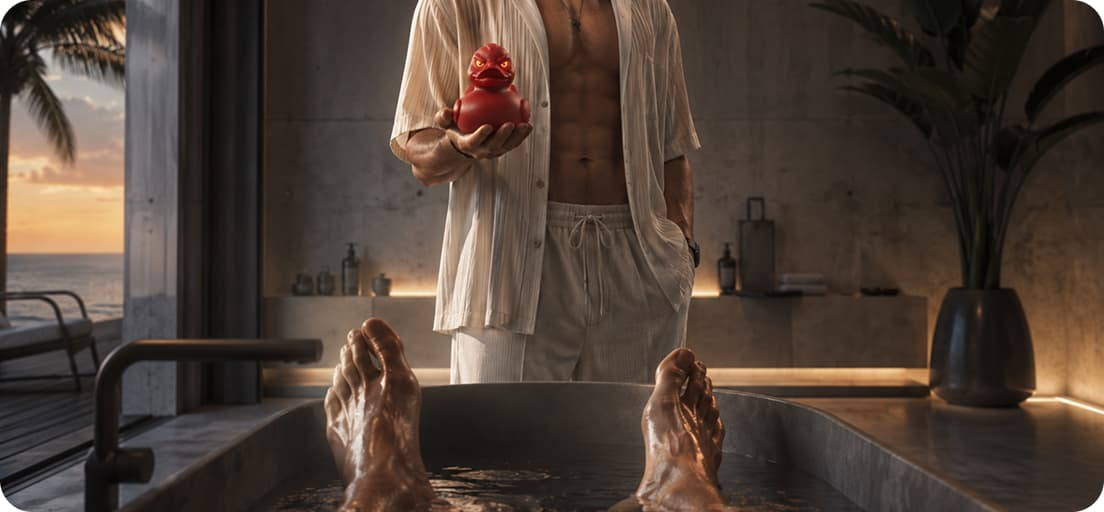
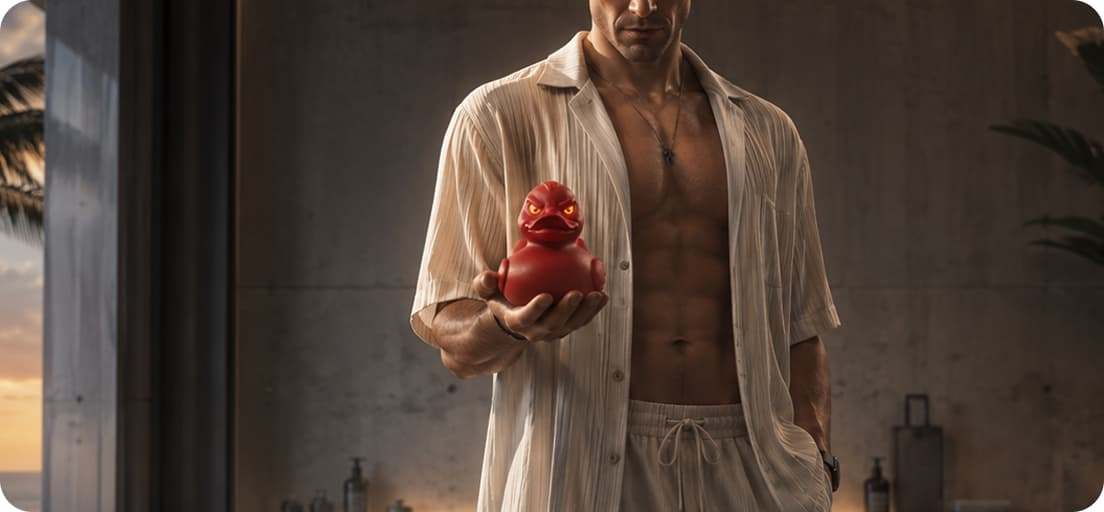
feat(home): redesign review intro modal to two-minute cards
Match Figma 492:3611: author name in description, minute cards with rec preview, and playful CTA before claim.

diff --git a/src/components/home-screen/HomeScreen.js b/src/components/home-screen/HomeScreen.js
@@ -58,9 +58,8 @@ import { createAccountMenu } from "../account-menu/AccountMenu.js";
 import { createTabsPanel } from "../tabs-panel/TabsPanel.js";
 import { createLegendaryOnlinePanel } from "../legendary-online-panel/LegendaryOnlinePanel.js";
 import { createContactFab } from "../contact-fab/ContactFab.js";
-import { createExplainerMediaRay } from "./explainerMediaRay.js";
 import { COMMUNITY_CONTACT_URL } from "../../config/contacts.js";
-import { REVIEW_SESSION_SECONDS } from "../../config/review.js";
+import { createExplainerMediaRay } from "./explainerMediaRay.js";
 import boneIconUrl from "../../assets/home/bone.svg";
 import balanceCardDucksUrl from "../../assets/home/modal/balance-card-ducks.svg";
 import currencyDuckUrl from "../../assets/home/modal/currency-duck.png";
@@ -95,6 +94,65 @@ function reputationIconUrlFor(delta) {
   if (delta > 0) return reputationPositiveIconUrl;
   if (delta < 0) return reputationNegativeIconUrl;
   return reputationNeutralIconUrl;
+}
+
+/**
+ * Декоративный чип rec для intro-модалки (Figma `492:3611`) — не интерактивный.
+ * @returns {HTMLDivElement}
+ */
+function createReviewIntroRecPreview() {
+  const chip = document.createElement("div");
+  chip.className = "home-screen__review-intro-rec";
+  chip.setAttribute("aria-hidden", "true");
+
+  const micWrap = document.createElement("span");
+  micWrap.innerHTML = `<svg class="home-screen__review-intro-rec-mic" width="32" height="32" viewBox="0 0 18 18" fill="none" xmlns="http://www.w3.org/2000/svg" aria-hidden="true" focusable="false">
+    <path d="M9 11.25C10.2426 11.25 11.25 10.2426 11.25 9V4.5C11.25 3.25736 10.2426 2.25 9 2.25C7.75736 2.25 6.75 3.25736 6.75 4.5V9C6.75 10.2426 7.75736 11.25 9 11.25Z" stroke="currentColor" stroke-linecap="round" stroke-linejoin="round"/>
+    <path d="M13.5 8.25V9C13.5 11.4853 11.4853 13.5 9 13.5C6.51472 13.5 4.5 11.4853 4.5 9V8.25M9 13.5V15.75M7.125 15.75H10.875" stroke="currentColor" stroke-linecap="round" stroke-linejoin="round"/>
+  </svg>`;
+  const mic = micWrap.firstElementChild;
+
+  const wave = document.createElement("span");
+  wave.className = "home-screen__review-intro-rec-wave";
+  for (let i = 0; i < 12; i += 1) {
+    const bar = document.createElement("span");
+    bar.className = "home-screen__review-intro-rec-bar";
+    wave.append(bar);
+  }
+
+  const dot = document.createElement("span");
+  dot.className = "home-screen__review-intro-rec-dot";
+
+  if (mic) chip.append(mic);
+  chip.append(wave, dot);
+  return chip;
+}
+
+/**
+ * Карточка шага intro-модалки (минута 1 / 2).
+ * @param {{ title: string; body: string; withRec?: boolean }} opts
+ * @returns {HTMLLIElement}
+ */
+function createReviewIntroCard(opts) {
+  const card = document.createElement("li");
+  card.className = "home-screen__review-intro-card";
+  if (opts.withRec) {
+    card.classList.add("home-screen__review-intro-card--with-rec");
+  }
+
+  const title = document.createElement("p");
+  title.className = "home-screen__review-intro-card-title";
+  title.textContent = fixHangingPrepositions(opts.title ?? "");
+
+  const body = document.createElement("p");
+  body.className = "home-screen__review-intro-card-body";
+  body.textContent = fixHangingPrepositions(opts.body ?? "");
+
+  card.append(title, body);
+  if (opts.withRec) {
+    card.append(createReviewIntroRecPreview());
+  }
+  return card;
 }
 
 /**
@@ -1177,29 +1235,38 @@ export function createHomeScreen({
   }
 
   /**
-   * Промежуточный шаг перед claim: что будет на `/review` + CTA «Проревьюить».
+   * Промежуточный шаг перед claim: две минуты + CTA «Сюдаа его!».
    *
    * @param {HomePortfolioItem} item
    */
   function openReviewIntro(item) {
     const t = getStrings();
     reviewIntroItem = item;
-    const steps = [
-      formatString(t.homeReviewIntroStep1, { seconds: REVIEW_SESSION_SECONDS }),
-      t.homeReviewIntroStep2,
-      t.homeReviewIntroStep3,
-      t.homeReviewIntroStep4,
-    ];
+    const authorName =
+      (typeof item.name === "string" && item.name.trim()) ||
+      (typeof item.url === "string" && item.url.trim()) ||
+      "";
     reviewIntroSteps.replaceChildren();
     reviewIntroSteps.setAttribute("aria-label", t.homeReviewIntroStepsAria ?? "");
-    for (const text of steps) {
-      const step = document.createElement("li");
-      step.className = "home-screen__review-intro-step";
-      step.textContent = text ?? "";
-      reviewIntroSteps.append(step);
-    }
-    reviewIntroModal.setTitle(t.homeReviewIntroTitle ?? "");
-    reviewIntroModal.setDescription(t.homeReviewIntroBody ?? "");
+    reviewIntroSteps.append(
+      createReviewIntroCard({
+        title: t.homeReviewIntroStep1Title ?? "",
+        body: t.homeReviewIntroStep1Body ?? "",
+        withRec: true,
+      }),
+      createReviewIntroCard({
+        title: t.homeReviewIntroStep2Title ?? "",
+        body: t.homeReviewIntroStep2Body ?? "",
+      }),
+    );
+    reviewIntroModal.setTitle(
+      fixHangingPrepositions(t.homeReviewIntroTitle ?? ""),
+    );
+    reviewIntroModal.setDescription(
+      fixHangingPrepositions(
+        formatString(t.homeReviewIntroBody ?? "", { name: authorName }),
+      ),
+    );
     reviewIntroModal.setPrimaryLabel(t.homeReviewIntroStart ?? "");
     reviewIntroModal.setSecondaryLabel(t.homeReviewIntroCancel ?? "");
     reviewIntroModal.setCloseAriaLabel(t.homeReviewIntroCloseAria ?? "");

diff --git a/styles/home-screen.css b/styles/home-screen.css
@@ -415,22 +415,160 @@
 }
 
 .home-screen__review-intro-steps {
+  box-sizing: border-box;
+  display: flex;
+  flex-wrap: wrap;
+  gap: var(--home-screen-review-intro-cards-gap);
+  width: 100%;
   margin: 0;
-  padding-left: var(--home-screen-review-intro-indent);
-  color: var(--color-text-muted);
+  padding: 0;
+  list-style: none;
+}
+
+.home-screen__review-intro-card {
+  box-sizing: border-box;
+  position: relative;
+  display: flex;
+  flex: 1 1 calc(
+    (100% - var(--home-screen-review-intro-cards-gap)) / 2
+  );
+  flex-direction: column;
+  gap: var(--home-screen-review-intro-card-text-gap);
+  min-width: 0;
+  min-height: var(--home-screen-review-intro-card-size);
+  margin: 0;
+  padding: var(--home-screen-review-intro-card-padding);
+  overflow: hidden;
+  border-radius: var(--home-screen-review-intro-card-radius);
+  background: var(--home-screen-review-intro-card-bg);
+}
+
+.home-screen__review-intro-card-title {
+  margin: 0;
+  color: var(--home-screen-review-intro-card-title-color);
   font-family: var(--font-family);
-  font-size: var(--font-size-md);
-  font-weight: var(--font-weight-regular);
-  line-height: var(--line-height-loose);
+  font-size: var(--home-screen-review-intro-card-title-size);
+  font-weight: var(--home-screen-review-intro-card-title-weight);
+  line-height: var(--line-height-snug);
 }
 
-.home-screen__review-intro-step + .home-screen__review-intro-step {
-  margin-top: var(--home-screen-review-intro-step-gap);
+.home-screen__review-intro-card-body {
+  margin: 0;
+  color: var(--home-screen-review-intro-card-body-color);
+  font-family: var(--font-family);
+  font-size: var(--home-screen-review-intro-card-body-size);
+  font-weight: var(--home-screen-review-intro-card-body-weight);
+  line-height: var(--line-height-snug);
 }
 
-.home-screen__review-intro-step::marker {
-  color: var(--color-text-strong);
-  font-weight: var(--font-weight-semibold);
+.home-screen__review-intro-rec {
+  box-sizing: border-box;
+  position: absolute;
+  bottom: var(--home-screen-review-intro-rec-bottom);
+  left: 50%;
+  display: inline-flex;
+  align-items: center;
+  gap: var(--home-screen-review-intro-rec-gap);
+  height: var(--home-screen-review-intro-rec-height);
+  padding: 0 var(--home-screen-review-intro-rec-padding-right) 0
+    var(--home-screen-review-intro-rec-padding-x);
+  border-radius: var(--home-screen-review-intro-rec-radius);
+  background: var(--home-screen-review-intro-rec-bg);
+  box-shadow: var(--home-screen-review-intro-rec-shadow);
+  color: var(--color-text);
+  pointer-events: none;
+  transform: translateX(-50%);
+}
+
+.home-screen__review-intro-rec-mic {
+  display: block;
+  flex: 0 0 auto;
+  width: var(--home-screen-review-intro-rec-mic-size);
+  height: var(--home-screen-review-intro-rec-mic-size);
+}
+
+.home-screen__review-intro-rec-wave {
+  box-sizing: border-box;
+  display: inline-flex;
+  align-items: center;
+  flex: 0 0 auto;
+  height: var(--home-screen-review-intro-rec-wave-height);
+  gap: var(--home-screen-review-intro-rec-wave-gap);
+}
+
+.home-screen__review-intro-rec-bar {
+  display: block;
+  flex: 0 0 var(--home-screen-review-intro-rec-bar-width);
+  width: var(--home-screen-review-intro-rec-bar-width);
+  height: calc(
+    var(--home-screen-review-intro-rec-wave-height) * var(--bar-base, 0.33)
+  );
+  border-radius: var(--home-screen-review-intro-rec-bar-radius);
+  background: var(--home-screen-review-intro-rec-wave-color);
+}
+
+.home-screen__review-intro-rec-bar:nth-child(1) {
+  --bar-base: 0.333;
+}
+.home-screen__review-intro-rec-bar:nth-child(2) {
+  --bar-base: 0.667;
+}
+.home-screen__review-intro-rec-bar:nth-child(3) {
+  --bar-base: 1;
+}
+.home-screen__review-intro-rec-bar:nth-child(4) {
+  --bar-base: 0.667;
+}
+.home-screen__review-intro-rec-bar:nth-child(5) {
+  --bar-base: 0.778;
+}
+.home-screen__review-intro-rec-bar:nth-child(6) {
+  --bar-base: 0.333;
+}
+.home-screen__review-intro-rec-bar:nth-child(7) {
+  --bar-base: 1;
+}
+.home-screen__review-intro-rec-bar:nth-child(8) {
+  --bar-base: 0.778;
+}
+.home-screen__review-intro-rec-bar:nth-child(9) {
+  --bar-base: 0.333;
+}
+.home-screen__review-intro-rec-bar:nth-child(10) {
+  --bar-base: 1;
+}
+.home-screen__review-intro-rec-bar:nth-child(11) {
+  --bar-base: 0.778;
+}
+.home-screen__review-intro-rec-bar:nth-child(12) {
+  --bar-base: 0.333;
+}
+
+.home-screen__review-intro-rec-dot {
+  display: block;
+  flex: 0 0 auto;
+  width: var(--home-screen-review-intro-rec-dot-size);
+  height: var(--home-screen-review-intro-rec-dot-size);
+  border-radius: 50%;
+  background: var(--color-recording);
+}
+
+@media (max-width: 560px) {
+  .home-screen__review-intro-card {
+    flex: 1 1 100%;
+    min-height: 0;
+  }
+
+  .home-screen__review-intro-card--with-rec {
+    padding-bottom: calc(
+      var(--home-screen-review-intro-card-padding) +
+        var(--home-screen-review-intro-rec-height) + var(--space-4)
+    );
+  }
+
+  .home-screen__review-intro-rec {
+    bottom: var(--home-screen-review-intro-card-padding);
+  }
 }
 
 .home-screen__chip:hover {

diff --git a/styles/tokens.css b/styles/tokens.css
@@ -820,8 +820,42 @@
   --home-screen-locked-modal-title-weight: var(--font-weight-semibold);
   --home-screen-locked-modal-body-size: var(--font-size-base);
   --home-screen-locked-modal-z: calc(var(--home-screen-z) + 1);
-  --home-screen-review-intro-indent: var(--space-5);
-  --home-screen-review-intro-step-gap: var(--space-2);
+  --home-screen-review-intro-cards-gap: var(--space-4);
+  --home-screen-review-intro-card-size: 268px;
+  --home-screen-review-intro-card-padding: var(--space-4);
+  --home-screen-review-intro-card-radius: var(--radius-md);
+  --home-screen-review-intro-card-bg: var(--color-surface-muted);
+  --home-screen-review-intro-card-title-size: var(--font-size-lg);
+  --home-screen-review-intro-card-title-weight: var(--font-weight-semibold);
+  --home-screen-review-intro-card-title-color: var(--color-text);
+  --home-screen-review-intro-card-body-size: var(--font-size-base);
+  --home-screen-review-intro-card-body-weight: var(--font-weight-regular);
+  --home-screen-review-intro-card-body-color: color-mix(
+    in srgb,
+    var(--color-text) 50%,
+    transparent
+  );
+  --home-screen-review-intro-card-text-gap: var(--space-1);
+  --home-screen-review-intro-rec-height: 57px;
+  --home-screen-review-intro-rec-padding-x: 12px;
+  --home-screen-review-intro-rec-padding-right: 18px;
+  --home-screen-review-intro-rec-gap: 7px;
+  --home-screen-review-intro-rec-radius: 14px;
+  --home-screen-review-intro-rec-bg: var(--color-surface);
+  --home-screen-review-intro-rec-shadow: -1px 4px 2px
+    color-mix(in srgb, var(--palette-gray-900) 8%, transparent);
+  --home-screen-review-intro-rec-bottom: 51px;
+  --home-screen-review-intro-rec-mic-size: 32px;
+  --home-screen-review-intro-rec-wave-height: 32px;
+  --home-screen-review-intro-rec-wave-gap: 4px;
+  --home-screen-review-intro-rec-bar-width: 4px;
+  --home-screen-review-intro-rec-bar-radius: 5px;
+  --home-screen-review-intro-rec-wave-color: color-mix(
+    in srgb,
+    var(--color-text) 25%,
+    transparent
+  );
+  --home-screen-review-intro-rec-dot-size: 7px;
   --home-screen-invite-explainer-gap: var(--space-4);
   --home-screen-invite-explainer-media-width: 100%;
   --home-screen-invite-explainer-media-height: 256px;

diff --git a/PROJECT.md b/PROJECT.md
@@ -34,7 +34,7 @@
 - **Silent refresh:** при тех же id карточек — патч только reviewer-слотов (без thum.io); новые id — rebuild + reveal только для них.
 - **Порядок feed:** `sortFeedForSlotClosure` — open slot → ближе к 3/3 → FIFO; `reviewedByMe` / full вниз (не newest-first). См. home-screen README.
 - **Отправленный отчёт:** `reviewedByMe` появляется только после INSERT в `reviews`; карточка disabled с оверлеем «Отчёт отправлен», без intro/notice и повторного claim.
-- **Intro до claim:** клик по чужой карточке → `createAppModal` `homeReviewIntro*` (шаг 1 с `{seconds}` = `REVIEW_SESSION_SECONDS`) → CTA «Проревьюить» → claim → `/review`. «Не сейчас» / закрытие — без claim.
+- **Intro до claim:** клик по чужой карточке → `createAppModal` `homeReviewIntro*` (тайтл + автор `{name}`, две карточки минут, CTA «Сюдаа его!») → claim → `/review`. «Не сейчас» / закрытие — без claim.
 - **Mine report gate:** `reviewsCount < targetReviews` → `homeMineNotReady*`; иначе `/report`. Own-карточки всегда `cursor: pointer` (не `not-allowed`).
 - **Фильтр «Мои»:** сегмент Активные / Завершенные (`tabs-panel`); завершённые = 3/3 (`reviewsCount >= targetReviews`).
 - **Free-slot «Мои на ревью»:** до `MAX_MINE_PENDING` (=1) — реальная карточка или dashed «Свободный слот» (`homeMineSlotFree*`); занятый слот → `homePendingLimit*`; нет монет → `homeSubmitLocked*`. Подача — RPC `submit_portfolio` (atomic spend+insert).

diff --git a/src/components/app-modal/README.md b/src/components/app-modal/README.md
@@ -121,7 +121,7 @@ await modal.close();
 |----|---------------------|
 | Новый кейс с title + слот + 1–2 CTA | Inline notice без оверлея |
 | Общий каркас под разные тела | Ban / brand split-экраны |
-| Home: review intro (`homeReviewIntro*`), mine not-ready (`homeMineNotReady*` via notice), invite explainer (`homeInvite*`, Figma `492:4030`), submit-locked, reputation explainer (`homeReputation*`), balance explainer (`homeBalance*`), p4p online explainer (`homeLegendaryOnline*`), contacts | Complaint-модалка на `report-screen` (свой DOM, не app-modal) |
+| Home: review intro (`homeReviewIntro*`, Figma `492:3611`), mine not-ready (`homeMineNotReady*` via notice), invite explainer (`homeInvite*`, Figma `492:4030`), submit-locked, reputation explainer (`homeReputation*`), balance explainer (`homeBalance*`), p4p online explainer (`homeLegendaryOnline*`), contacts | Complaint-модалка на `report-screen` (свой DOM, не app-modal) |
 
 Слот intro на home: `<ol class="home-screen__review-intro-steps">` + токены `--home-screen-review-intro-*`.
 

diff --git a/styles/README.md b/styles/README.md
@@ -44,7 +44,7 @@
 | `--control-rec-*` / `--color-recording` | чип надиктовки в шапке `/review` |
 | `--shell-review-rec-*` | кнопка надиктовки в поле «Главный совет» |
 | `--home-screen-*` | topbar / feed / avatar / locked-modal |
-| `--home-screen-review-intro-*` | шаги intro-модалки (`indent` / `step-gap`) |
+| `--home-screen-review-intro-*` | карточки intro-модалки (две минуты + декоративный rec) |
 | `--home-screen-tabbar-*` | glass track (gray-900 10% / white on-dark 20% / blur 20), hide/thumb/label/contrast; dock-gap + submit (56×56 Google blue) + tab-dot (6px Google red) |
 | `--home-screen-reveal-delay-*` | entrance stagger на `/home` (topbar → body → dock → fab); dock = `motion-reveal-dock` **без** opacity (glass `backdrop-filter`) |
 | `--tabs-panel-*` | сегмент Активные/Завершенные (track / tab / thumb / tab-dot) |

diff --git a/.cursor/README.md b/.cursor/README.md
@@ -77,7 +77,7 @@ Entry CSS: `tokens`, `base`, `entrance`, `app-modal`, `iframe-shell`, `home-scre
 
 ## Review claims (шпаргалка)
 
-1. Home pick → intro-модалка (`homeReviewIntro*`) → CTA «Проревьюить» → `claimPortfolioReview` → `/review` (закрытие / «Не сейчас» — без claim).
+1. Home pick → intro-модалка (`homeReviewIntro*`) → CTA «Сюдаа его!» → `claimPortfolioReview` → `/review` (закрытие / «Не сейчас» — без claim).
 2. Mine (`isOwn`): `reviewsCount >= targetReviews` → `onOpenReport` → `/report`; иначе `homeMineNotReady*`.
 3. Heartbeat пока на review/quiz (TTL 20 min).
 4. Abort / back / pagehide → `release` **без** монет.
